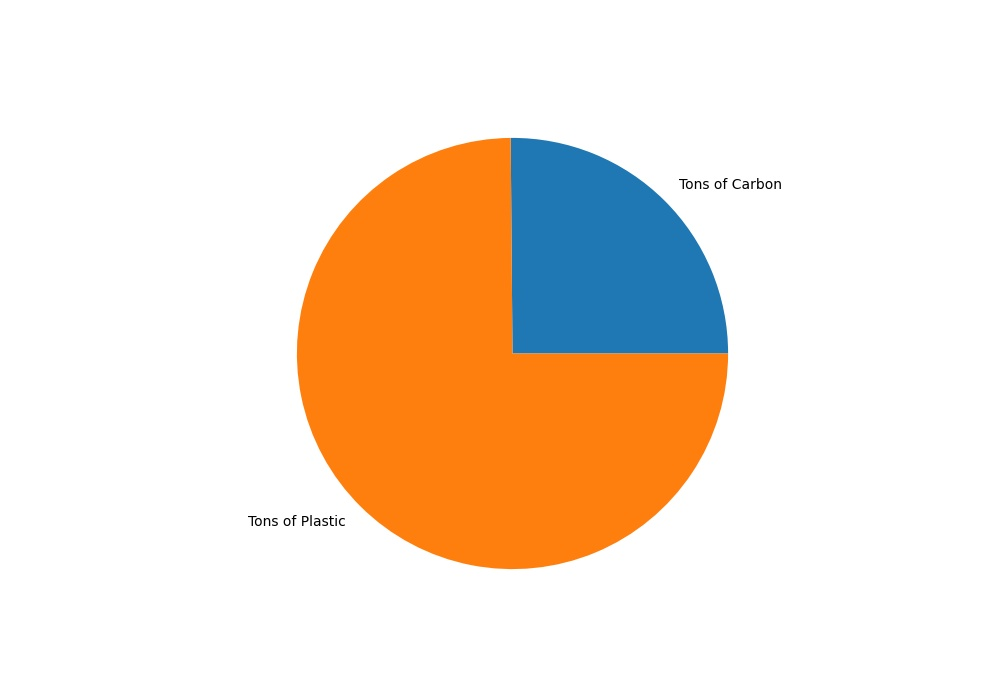
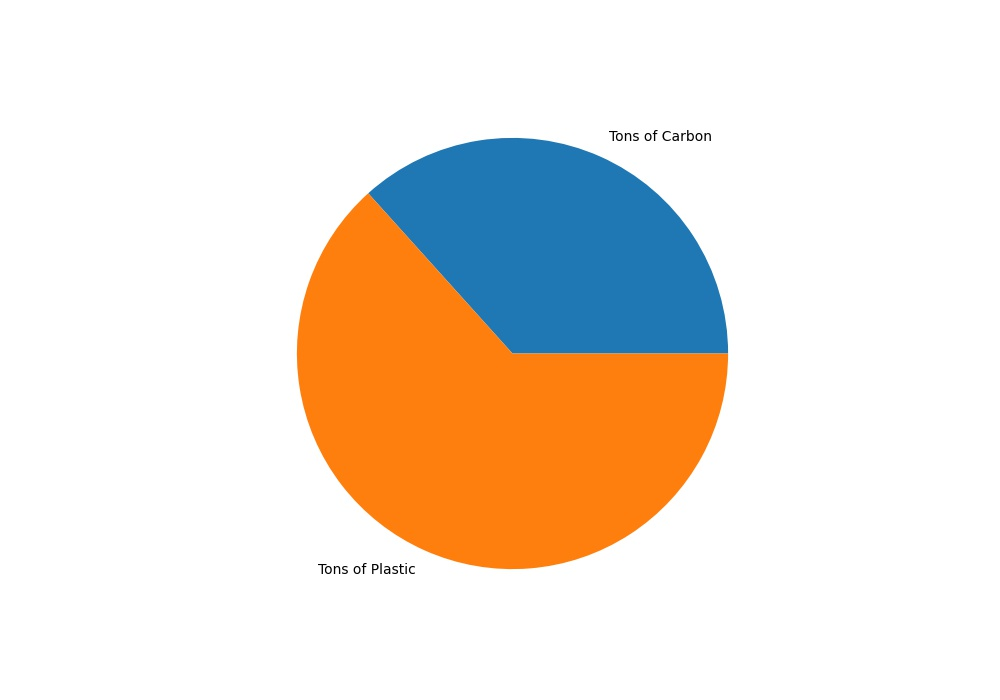
final commit

diff --git a/quickstart.py b/quickstart.py
@@ -167,29 +167,45 @@ if __name__ == '__main__':
     service = get_service()
     # print(service)
 
-    search_query = input("Tell me something to search for: ")
-    message_ids = search_messages(
-        service=service, user_id='me', search_string=search_query)
+    # search_query = input("Tell me something to search for: ")
 
-    if message_ids:
+    amazon_search_query = "Amazon.com"
+    flight_search_query = "Your trip confirmation"
+
+    amazon_msg_ids = search_messages(
+        service=service, user_id='me', search_string=amazon_search_query)
+
+    flight_msg_ids = search_messages(
+        service=service, user_id='me', search_string=flight_search_query)
+
+    if amazon_msg_ids and flight_msg_ids:
         # print(get_message(service=service,
         #       user_id='me', msg_id=random.choice(message_ids)))
 
-        rand_msg_id = random.choice(message_ids)
-        print("Your message id is: " + rand_msg_id)
+        # rand_msg_id = random.choice(message_ids)
+        # print("Your message id is: " + rand_msg_id)
 
-        multipart_msgs = get_multipart_messages(service=service,
-                                                user_id='me', msg_id=rand_msg_id)
+        # multipart_msgs = get_multipart_messages(service=service,
+        #                                         user_id='me', msg_id=rand_msg_id)
 
-        python_json = {"content": None}
+        # python_json = {"content": None}
 
-        python_json["content"] = {f"part_{i}": multipart_msgs[i]
-                                  for i in range(len(multipart_msgs))}
+        # python_json["content"] = {f"part_{i}": multipart_msgs[i]
+        #                           for i in range(len(multipart_msgs))}
+
+        python_json = {"First Name": "",
+                       "Last Name": "", "email": "", "env_impact": {}}
+
+        python_json["First Name"] = "Sam"
+        python_json["Last Name"] = "Pies"
+        python_json["email"] = "sampieslovestheearth@gmail.com"
+        python_json["env_impact"]["carbon_ton"] = len(flight_msg_ids)
+        python_json["env_impact"]["plastic_ton"] = len(amazon_msg_ids)
 
         # json_formatted_str = json.dumps(python_json, indent=2)
         # print(json_formatted_str)
 
-        with open("output/sample.json", "w") as outfile:
+        with open("output/impact.json", "w") as outfile:
             json.dump(python_json, outfile)
 
 

diff --git a/JSONParse.py b/JSONParse.py
@@ -53,9 +53,26 @@ def JSONParse(fN):
     keyring.set_password('yagmail', sender_email, password)
     filename = "test.jpg"
 
-    text = f"""Your carbon footprint is {totFP} tons of carbon.
-    Your carbon footprint due to transportation and plastic consumption is {co2TN} and {plastTN} respectively.
-    {advice}"""
+    first_name = data["First Name"]
+    last_name = data["Last Name"]
+
+    text = f"""
+    Hello, {first_name} {last_name}!
+
+    I hope this email brings you well. We wanted to bring some awareness to your environmentally unsustainable activity. 
+
+    Your carbon footprint is {totFP} tons of carbon.
+    Your plastic consumption is {plastTN} tons.
+
+    Do you want the turtles to die at YOUR hands?
+    Do you want the sea to wipe out civilization Because of YOU?
+
+    Do you want your city to become an uninhabitable wasteland because of YOU?
+    Do you want the sea to wipe out civilization at YOUR hands?
+
+    I hope the answer to all of these questions is a strong no. So, please use more eco-friendly options, such as reusable water bottles. Flights are tricky, but we remain hopeful that 
+    there will be more practical and environmentally sustainable transporation options in the future.
+    """
 
     yag = yagmail.SMTP("eco.email.automated@gmail.com")
     yag.send(
@@ -67,4 +84,4 @@ def JSONParse(fN):
 
 
 if __name__ == "__main__":
-    JSONParse("output\json_format.json")
+    JSONParse("output/impact.json")
